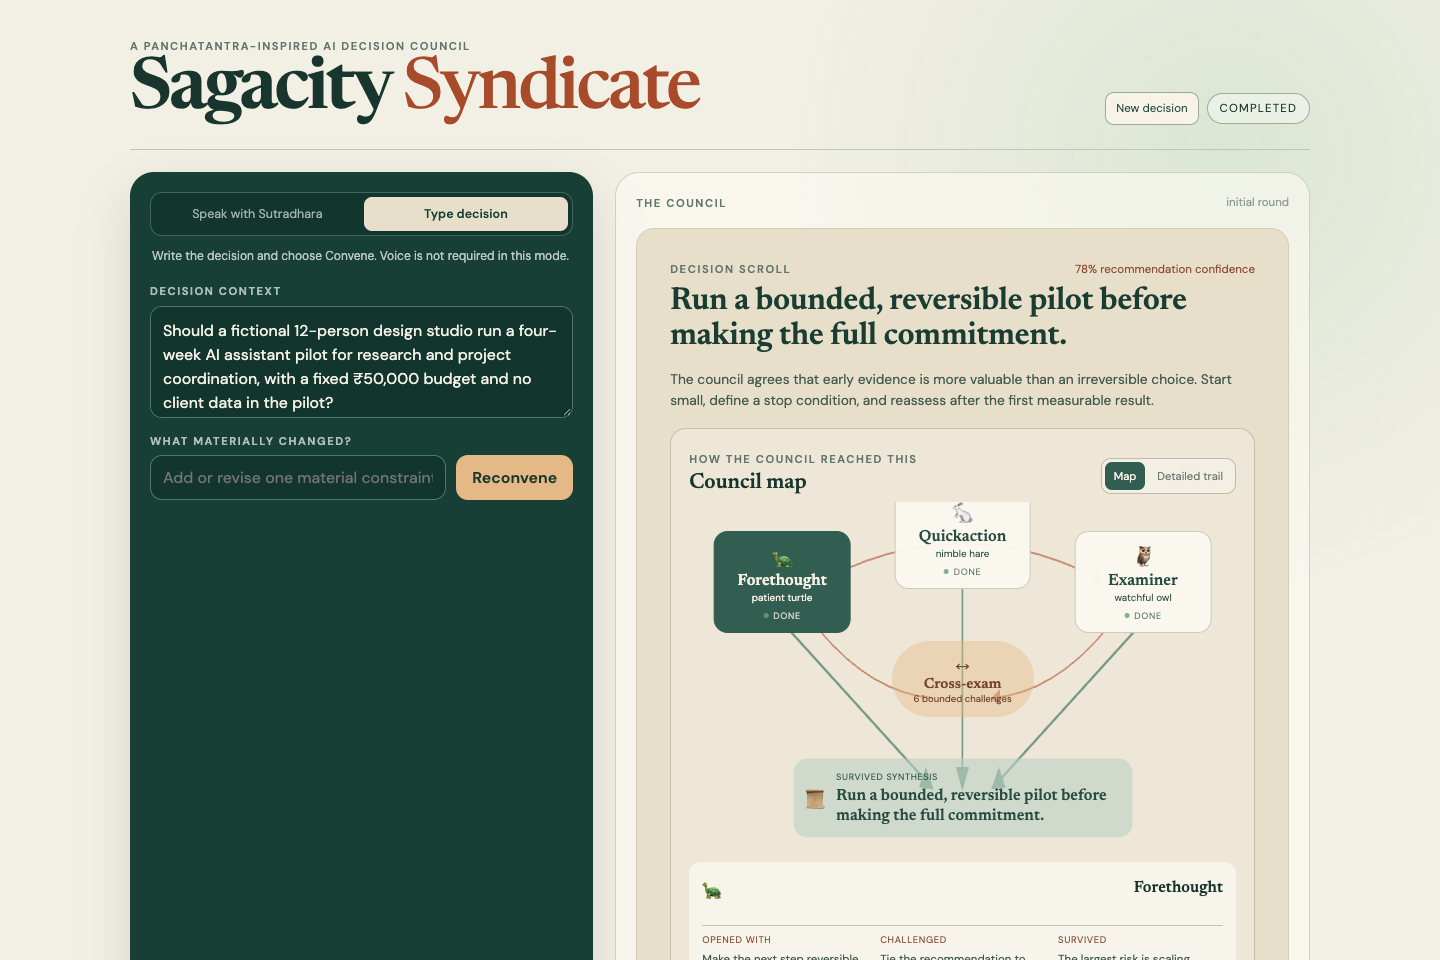
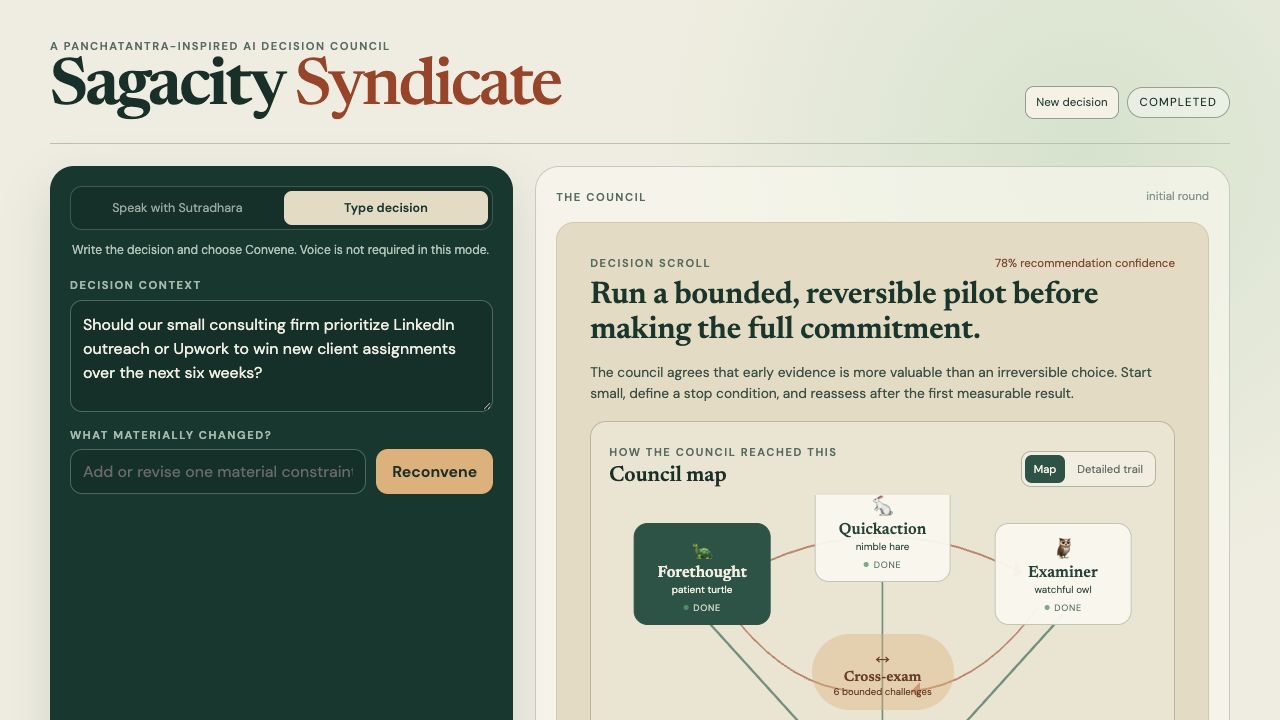
docs: add Apache license and genuine showcase

diff --git a/README.md b/README.md
@@ -11,6 +11,7 @@
 [![Azure Foundry](https://img.shields.io/badge/Azure-Foundry%20Voice%20%2B%20Responses-0078d4?logo=microsoftazure&logoColor=white)](https://learn.microsoft.com/en-us/azure/ai-services/speech-service/voice-live-how-to)
 [![WebRTC](https://img.shields.io/badge/Voice-WebRTC-b45309)](ARCHITECTURE.md)
 [![Tests](https://img.shields.io/badge/tests-190%20passing-2f855a)](docs/VALIDATION_HISTORY.md)
+[![License: Apache 2.0](https://img.shields.io/badge/License-Apache%202.0-d97706.svg)](LICENSE)
 
 [Quick start](#quick-start) · [Architecture](ARCHITECTURE.md) · [Azure deployment](docs/AZURE_DEPLOYMENT.md) · [User guide](USER_GUIDE.md) · [Validation](docs/VALIDATION_HISTORY.md)
 
@@ -210,3 +211,10 @@ npm start                      # serve the production build
 - This is a single-owner proof of concept. The hosted pilot has authentication,
   but it is not a multi-user production authorization system.
 - High-stakes legal, medical, financial, employment, and safety decisions require independent verification.
+
+## License
+
+Sagacity Syndicate is licensed under the [Apache License 2.0](LICENSE). The
+license covers the source code and repository documentation unless a file says
+otherwise. Third-party dependencies, services, names, and marks remain subject
+to their respective terms.
